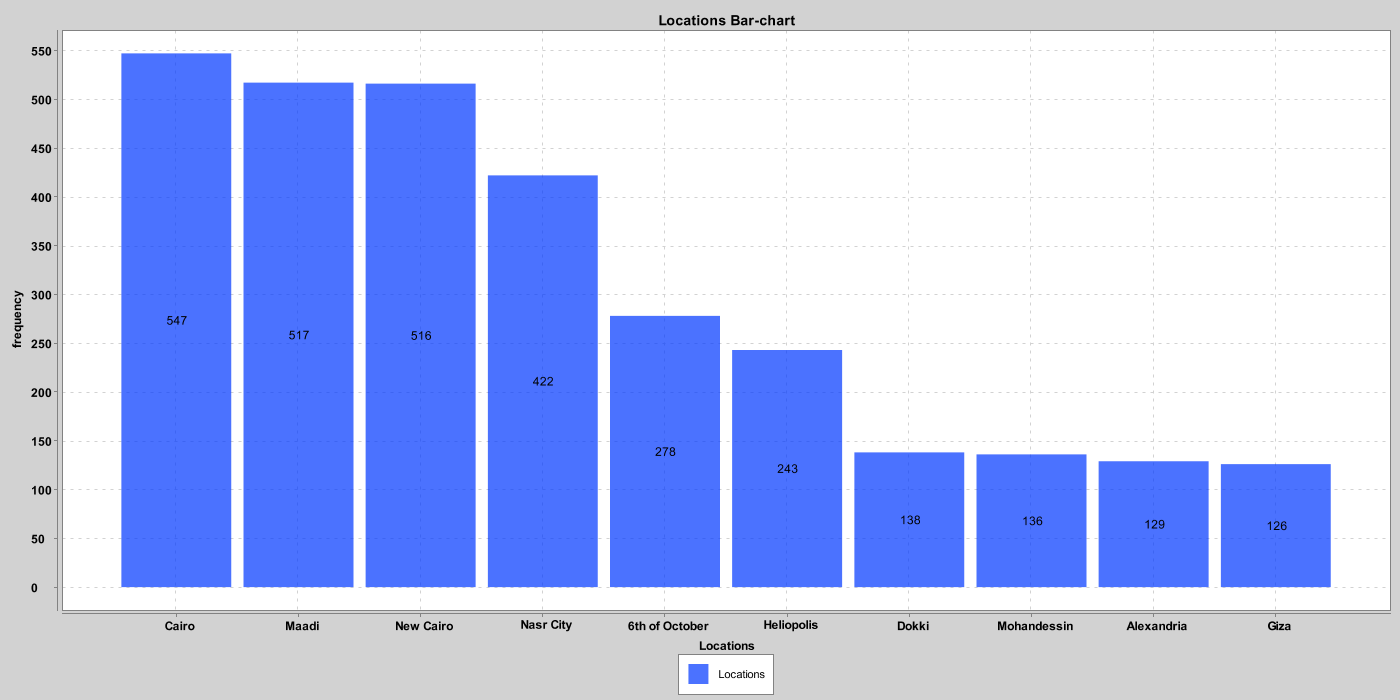
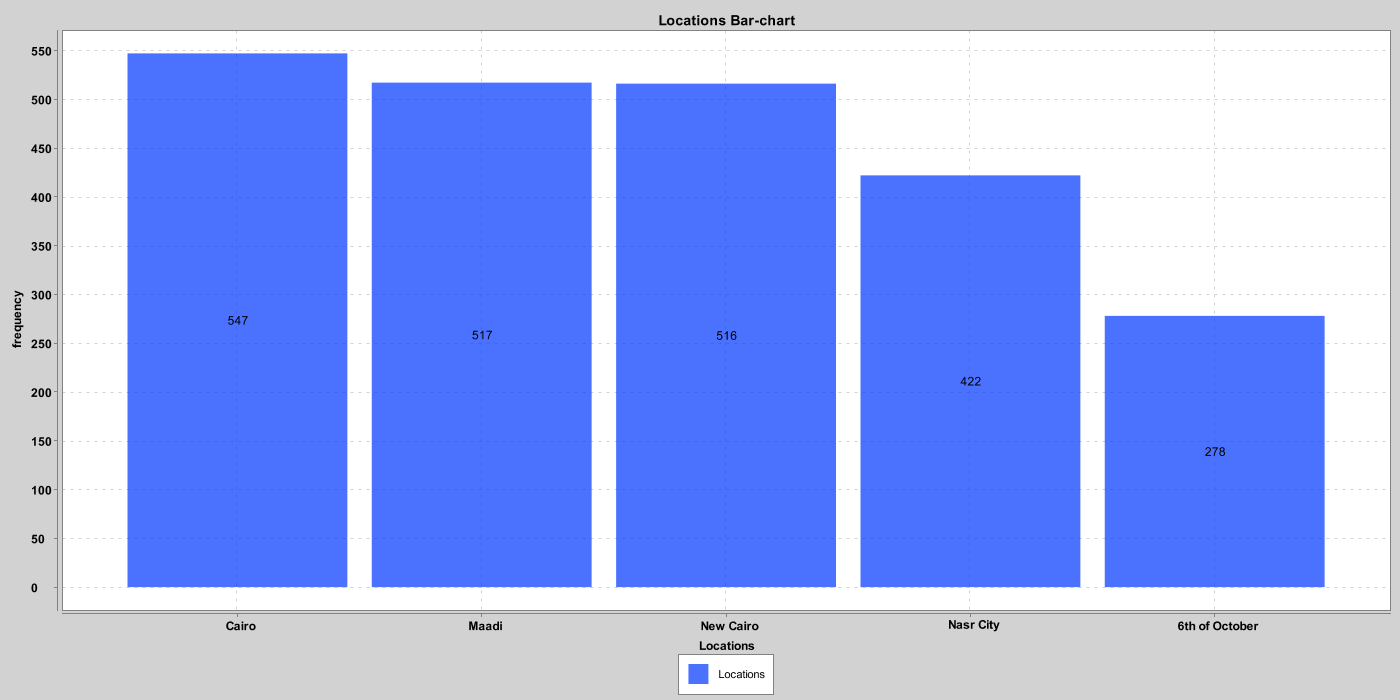
make it dynamic
make it dynamic

diff --git a/01.java development SE/SpringWithSparkProject/src/main/resources/public/index.html b/01.java development SE/SpringWithSparkProject/src/main/resources/public/index.html
@@ -8,7 +8,7 @@
   <meta name="x-apple-disable-message-reformatting"> 
   <meta http-equiv="X-UA-Compatible" content="IE=edge"> 
   <meta content="telephone=no" name="format-detection"> 
-  <title>New Template</title> 
+  <title>Wazzaf Data Set Exploration</title> 
   <!--[if (mso 16)]>
     <style type="text/css">
     a {text-decoration: none;}

diff --git a/01.java development SE/SpringWithSparkProject/src/main/java/com/example/ABS/ITI/FirstProject/Controller.java b/01.java development SE/SpringWithSparkProject/src/main/java/com/example/ABS/ITI/FirstProject/Controller.java
@@ -29,11 +29,24 @@ public class Controller {
 
     //    1. Read data set and convert it to dataframe or Spark RDD
     //    and display some from it.
+//
+//    @RequestMapping("/{someID}")
+//    public @ResponseBody int getAttr(@PathVariable(value="someID") String id,
+//                                     @RequestParam String someAttr) {
+//    }
+//
+//    @RequestMapping(value = "/show"  , produces     =  MediaType.TEXT_PLAIN_VALUE)
+//    public String showData10() {
+//        return mydata.head(10);
+//    }
 
-    @RequestMapping(value = "/show"  , produces     =  MediaType.TEXT_PLAIN_VALUE)
-    public String showData() {
-        System.out.println("ffff");
-        return mydata.head(10);
+    @RequestMapping(value = {"/show" ,"/show/{n}"}  , produces     =  MediaType.TEXT_PLAIN_VALUE)
+    public String showData(@PathVariable(required = false, value="n") Integer n) {
+//        if (n != null){
+//        return mydata.head(n);}
+//        else{ return mydata.head(10);
+//        }
+        return ((n != null) ? mydata.head(n) : mydata.head(10));
     }
 
 //2. Display structure and summary of the data.
@@ -41,10 +54,12 @@ public class Controller {
     public String getStructure(){
         return mydata.getStructure();
     }
+
     @RequestMapping(value = "/summary" , produces     =  MediaType.TEXT_PLAIN_VALUE )
     public String Summary(){
         return mydata.getSummary();
     }
+
 
 //3. Clean the data (null, duplications)
     // included in the initialization
@@ -52,45 +67,50 @@ public class Controller {
 //4. Count the jobs for each company and display that in order
 //            (What are the most demanding companies for jobs?)
 
-    @RequestMapping(value = "/jobsforeachcompany", produces     =  MediaType.TEXT_PLAIN_VALUE )
-    public String compy() throws IOException {
-        return mydata.plotCompanyPieChart(10).getKey();
+    @RequestMapping(value = { "/jobsforeachcompany","/jobsforeachcompany/{n}"}, produces     =  MediaType.TEXT_PLAIN_VALUE )
+    public String compy(@PathVariable(required = false,value="n") Integer  n) throws IOException {
+//        if (n == null){
+//           return mydata.plotCompanyPieChart(10).getKey();
+//        }else {
+//        return mydata.plotCompanyPieChart(n).getKey();
+        return ((n != null) ? mydata.plotCompanyPieChart(n).getKey() : mydata.plotCompanyPieChart(10).getKey());
     }
 
 //5. Show step 4 in a pie chart
-@RequestMapping(value = "/JobsPerCompanyPieChart", method = RequestMethod.GET,
+@RequestMapping(value = {"/JobsPerCompanyPieChart","/JobsPerCompanyPieChart/{n}"}, method = RequestMethod.GET,
         produces = MediaType.IMAGE_JPEG_VALUE)
-public @ResponseBody byte[] getCompaniesPie() throws IOException {
+public @ResponseBody byte[] getCompaniesPie(@PathVariable(required = false,value="n") Integer  n) throws IOException {
 
-    Path path  = Paths.get(mydata.plotCompanyPieChart(10).getValue());
-    if (Files.exists(path) && !Files.isDirectory(path)) {
-        System.out.println("exists!");
-
-        InputStream in = Files.newInputStream(path, StandardOpenOption.READ);
-        return IOUtils.toByteArray(in);
-    }
+    Path path  = Paths.get(((n != null) ? mydata.plotCompanyPieChart(n).getValue() : mydata.plotCompanyPieChart(10).getValue()));
+//    if (Files.exists(path) && !Files.isDirectory(path)) {
+//        System.out.println("exists!");
+//
+//        InputStream in = Files.newInputStream(path, StandardOpenOption.READ);
+//        return IOUtils.toByteArray(in);
+//    }
     InputStream in = Files.newInputStream(path, StandardOpenOption.READ);
     return IOUtils.toByteArray(in);
 }
 
 
 //6. Find out What are it the most popular job titles?
-@RequestMapping(value = "/mostpopularjobtitles", produces     =  MediaType.TEXT_PLAIN_VALUE )
-public String PopularTitles() throws IOException {
-    return mydata.PlotTitleForCompany(10).getKey();
+@RequestMapping(value = {"/mostpopularjobtitles","/mostpopularjobtitles/{n}"}, produces     =  MediaType.TEXT_PLAIN_VALUE )
+public String PopularTitles(@PathVariable(required = false,value="n") Integer  n) throws IOException {
+
+    return ((n != null) ? mydata.PlotTitleForCompany(n).getKey() : mydata.PlotTitleForCompany(10).getKey());
 }
 //            7. Show step 6 in bar chart
-@RequestMapping(value = "/JobsTitlesBarChart", method = RequestMethod.GET,
+@RequestMapping(value = {"/JobsTitlesBarChart","/JobsTitlesBarChart/{n}"}, method = RequestMethod.GET,
         produces = MediaType.IMAGE_JPEG_VALUE)
-public @ResponseBody byte[] getTitleBar() throws IOException {
+public @ResponseBody byte[] getTitleBar(@PathVariable(required = false,value="n") Integer  n) throws IOException {
 
-    Path path  = Paths.get(mydata.PlotTitleForCompany(10).getValue());
-    if (Files.exists(path) && !Files.isDirectory(path)) {
-        System.out.println("exists!");
-
-        InputStream in = Files.newInputStream(path, StandardOpenOption.READ);
-        return IOUtils.toByteArray(in);
-    }
+    Path path  = Paths.get(((n != null) ? mydata.PlotTitleForCompany(n).getValue() : mydata.PlotTitleForCompany(10).getValue()));
+//    if (Files.exists(path) && !Files.isDirectory(path)) {
+//        System.out.println("exists!");
+//
+//        InputStream in = Files.newInputStream(path, StandardOpenOption.READ);
+//        return IOUtils.toByteArray(in);
+//    }
     InputStream in = Files.newInputStream(path, StandardOpenOption.READ);
     return IOUtils.toByteArray(in);
 }
@@ -98,22 +118,23 @@ public @ResponseBody byte[] getTitleBar() throws IOException {
 
 
 //8. Find out the most popular areas?
-@RequestMapping(value = "/mostpopularareas", produces     =  MediaType.TEXT_PLAIN_VALUE )
-public String PopularAreas() throws IOException {
-    return mydata.plotAreaBarChart(10).getKey();
+@RequestMapping(value = {"/mostpopularareas","/mostpopularareas/{n}"}, produces     =  MediaType.TEXT_PLAIN_VALUE )
+public String PopularAreas(@PathVariable(required = false,value="n") Integer  n) throws IOException {
+    return ((n != null) ? mydata.plotAreaBarChart(n).getKey() : mydata.plotAreaBarChart(10).getKey());
+//    return mydata.plotAreaBarChart(10).getKey();
 }
 //            9. Show step 8 in bar chart
-@RequestMapping(value = "/PopularAreasBarChart", method = RequestMethod.GET,
+@RequestMapping(value = {"/PopularAreasBarChart","/PopularAreasBarChart/{n}"}, method = RequestMethod.GET,
         produces = MediaType.IMAGE_JPEG_VALUE)
-public @ResponseBody byte[] getAreasBar() throws IOException {
-
-    Path path  = Paths.get(mydata.plotAreaBarChart(10).getValue());
-    if (Files.exists(path) && !Files.isDirectory(path)) {
-        System.out.println("exists!");
-
-        InputStream in = Files.newInputStream(path, StandardOpenOption.READ);
-        return IOUtils.toByteArray(in);
-    }
+public @ResponseBody byte[] getAreasBar(@PathVariable(required = false,value="n") Integer  n) throws IOException {
+    Path path  = Paths.get(((n != null) ? mydata.plotAreaBarChart(n).getValue() : mydata.plotAreaBarChart(10).getValue()));
+//    Path path  = Paths.get(mydata.plotAreaBarChart(10).getValue());
+//    if (Files.exists(path) && !Files.isDirectory(path)) {
+//        System.out.println("exists!");
+//
+//        InputStream in = Files.newInputStream(path, StandardOpenOption.READ);
+//        return IOUtils.toByteArray(in);
+//    }
     InputStream in = Files.newInputStream(path, StandardOpenOption.READ);
     return IOUtils.toByteArray(in);
 }
@@ -123,22 +144,19 @@ public @ResponseBody byte[] getAreasBar() throws IOException {
 //    order the output to find out the most important skills
 //    required?
 //
-    @RequestMapping(value = "/skills", produces     =  MediaType.TEXT_PLAIN_VALUE )
-    public String Skills() throws IOException {
-
-        return mydata.getMostImportantSkills(30);
+    @RequestMapping(value = {"/skills","/skills/{n}"}, produces     =  MediaType.TEXT_PLAIN_VALUE )
+    public String Skills(@PathVariable(required = false,value="n") Integer  n) throws IOException {
+        return  ((n != null) ? "Top" + n +"skills\n" + mydata.getMostImportantSkills(n) : "Top" + 30 +"skills\n" +mydata.getMostImportantSkills(30));
     }
 
-    @RequestMapping(value = "/Factorizedyears", produces     =  MediaType.TEXT_PLAIN_VALUE )
-    public String Factorizedyears() throws IOException {
-
-        return mydata.getFactorizedYearsOfExp(10);
+    @RequestMapping(value = {"/Factorizedyears","/Factorizedyears/{n}"}, produces     =  MediaType.TEXT_PLAIN_VALUE )
+    public String Factorizedyears(@PathVariable(required = false,value="n") Integer  n) throws IOException {
+        return ((n != null) ? mydata.getFactorizedYearsOfExp(n) :mydata.getFactorizedYearsOfExp(10));
     }
 
-    @RequestMapping(value = "/K-means", produces     =  MediaType.TEXT_PLAIN_VALUE )
-    public String Kmeans() throws IOException {
-
-        return mydata.kMeansAlgorithm();
+    @RequestMapping(value = {"/K-means","/K-means/{n}"}, produces     =  MediaType.TEXT_PLAIN_VALUE )
+    public String Kmeans(@PathVariable(required = false,value="n") Integer  n) throws IOException {
+        return ((n != null) ? mydata.kMeansAlgorithm(n) :mydata.kMeansAlgorithm(3));
     }
 
 

diff --git a/01.java development SE/SpringWithSparkProject/src/main/java/com/example/ABS/ITI/FirstProject/DataSet.java b/01.java development SE/SpringWithSparkProject/src/main/java/com/example/ABS/ITI/FirstProject/DataSet.java
@@ -79,7 +79,7 @@ public class DataSet {
 //    public List<Row> head(int n)
     public String head(int n)
     {
-        String headValues = jobsDF.showString(10,40,false);
+        String headValues = jobsDF.showString(n,40,false);
 
 //        List<String[]> headValuesStrings = new ArrayList<>();
 //        for(Row row : headValues) {
@@ -310,6 +310,7 @@ public class DataSet {
         Dataset<Row> mDatasetFactorized = jobsDF.withColumn("YearExp_Factorized",
                 regexp_replace(trim(regexp_replace(jobsDF.col("YearsExp"), "[A-Za-z]", "")), "^$", "0"));
         Dataset<Row> yearsOfExp = mDatasetFactorized.select("YearsExp","YearExp_Factorized");
+        if( n > yearsOfExp.count()){ n =(int) yearsOfExp.count();}
         return yearsOfExp.showString(n,40,false);
     }
 
@@ -318,7 +319,7 @@ public class DataSet {
 //    12. Apply K-means for job title and companies (Bounce )
 
 
-    public String kMeansAlgorithm()
+    public String kMeansAlgorithm(int n)
     {
         Dataset<Row> dataset = jobsDF.as("data");
         String[] cols = {"Title", "Company"};
@@ -339,7 +340,7 @@ public class DataSet {
         vectorAssembler.setInputCols(factorizedCols).setOutputCol("features");
         Dataset<Row> trainData = vectorAssembler.transform(dataset);
 
-        KMeans kmeans = new KMeans().setK(3).setSeed(1L);
+        KMeans kmeans = new KMeans().setK(n).setSeed(1L);
         kmeans.setFeaturesCol("features");
         KMeansModel model = kmeans.fit(trainData);
 
